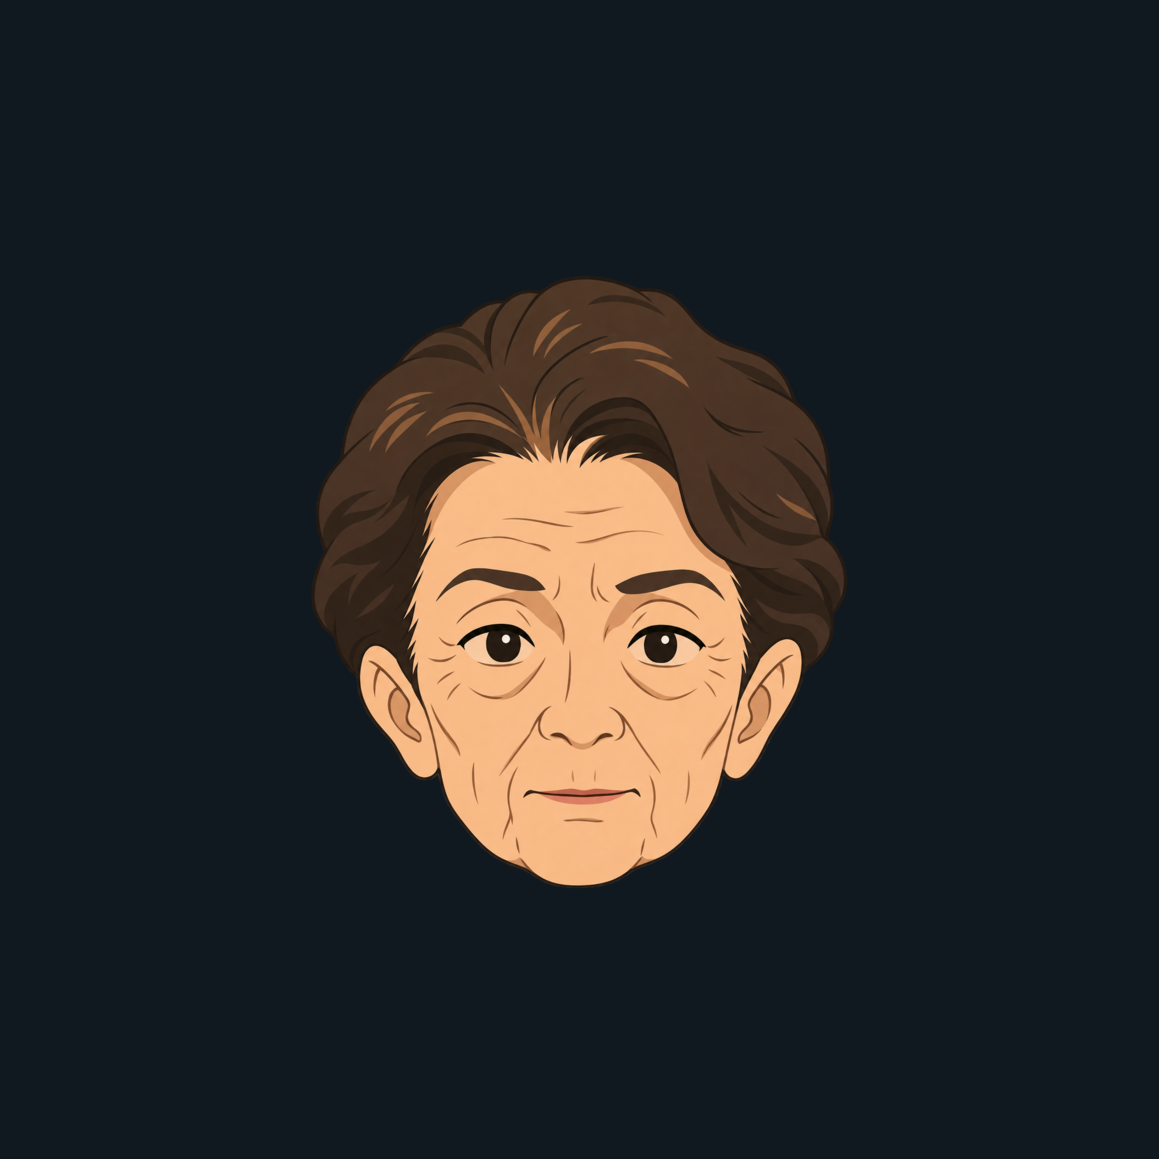
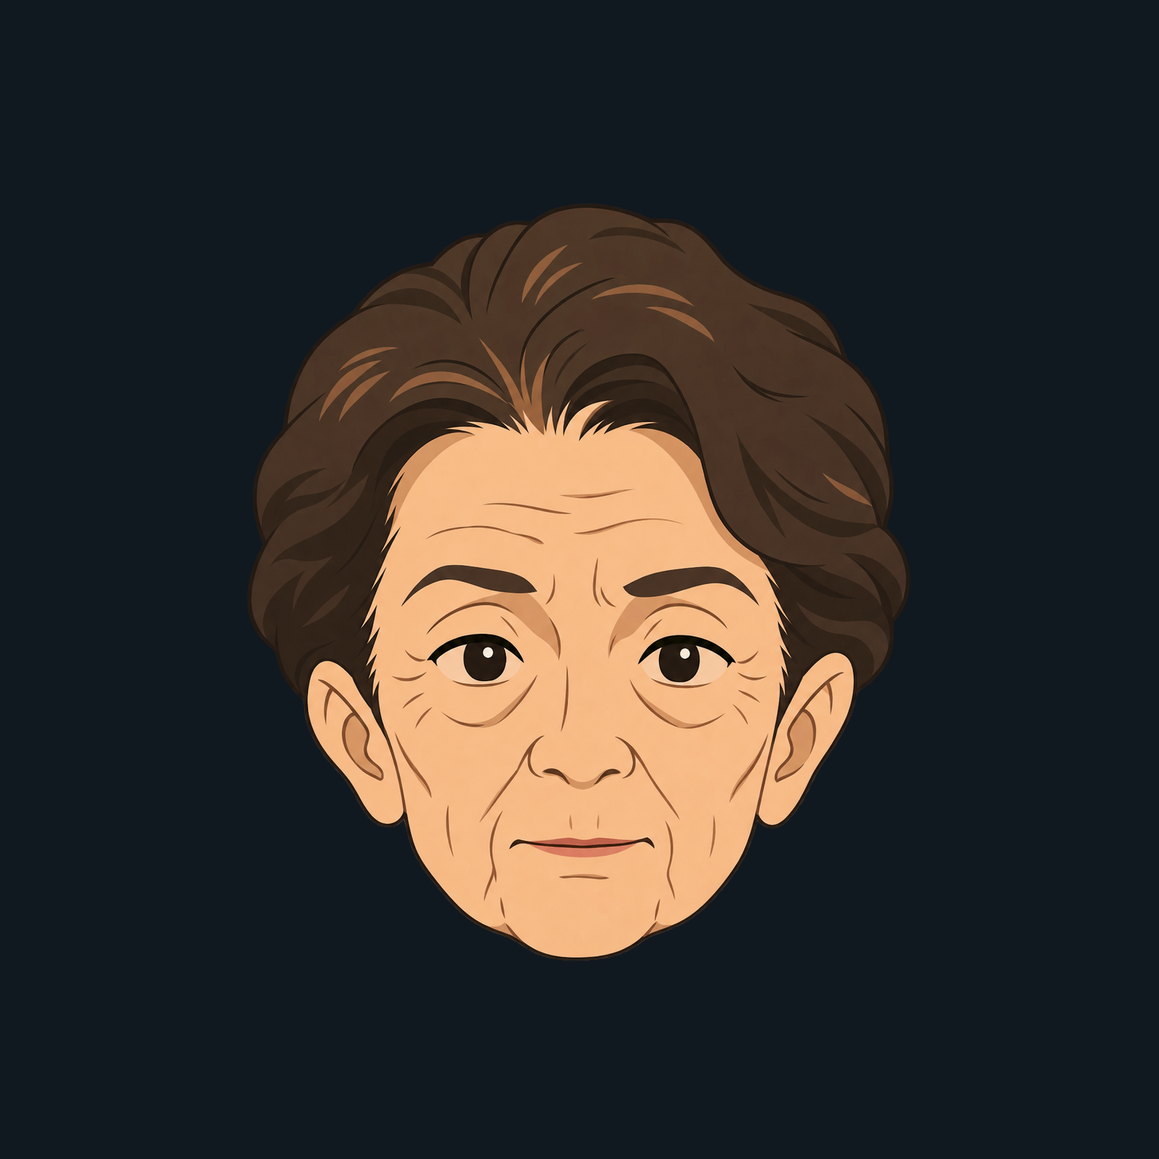
more fixes

Changed region(s): [[0.2174, 0.1553, 0.8076, 0.8387]]

diff --git a/main/main.c b/main/main.c
@@ -1,6 +1,7 @@
 #include <stdbool.h>
 #include <stddef.h>
 #include <stdint.h>
+#include <errno.h>
 #include <stdio.h>
 #include <string.h>
 
@@ -23,6 +24,8 @@
 #include "freertos/event_groups.h"
 #include "freertos/task.h"
 #include "nvs.h"
+#include "lwip/netdb.h"
+#include "lwip/sockets.h"
 #include "nvs_flash.h"
 
 #define BUTTON_COUNT 5
@@ -230,12 +233,37 @@ static uint8_t command_key(const char *command)
     return 0;
 }
 
+
+static void diag_connect(void)  /* TEMP DIAGNOSTIC */
+{
+    const char *host = strstr(backend_url, "://") + 3;
+    char h[96]; size_t n = strcspn(host, ":/"); memcpy(h, host, n); h[n] = 0;
+    struct addrinfo hints = {.ai_socktype = SOCK_STREAM}, *res = NULL;
+    int64_t t0 = esp_timer_get_time();
+    int rc = getaddrinfo(h, "443", &hints, &res);
+    ESP_LOGW(TAG, "DIAG getaddrinfo(%s)=%d in %lld ms", h, rc, (esp_timer_get_time() - t0) / 1000);
+    for (struct addrinfo *a = res; a; a = a->ai_next) {
+        char ip[64] = "?";
+        if (a->ai_family == AF_INET) inet_ntop(AF_INET, &((struct sockaddr_in *)a->ai_addr)->sin_addr, ip, sizeof(ip));
+        ESP_LOGW(TAG, "DIAG family=%d addr=%s", a->ai_family, ip);
+        int fd = socket(a->ai_family, SOCK_STREAM, 0);
+        struct timeval tv = {.tv_sec = 5};
+        setsockopt(fd, SOL_SOCKET, SO_SNDTIMEO, &tv, sizeof(tv));
+        t0 = esp_timer_get_time();
+        int c = connect(fd, a->ai_addr, a->ai_addrlen);
+        ESP_LOGW(TAG, "DIAG connect=%d errno=%d in %lld ms", c, errno, (esp_timer_get_time() - t0) / 1000);
+        close(fd);
+    }
+    if (res) freeaddrinfo(res);
+}
+
 static void backend_task(void *arg)
 {
     (void)arg;
     bool registered = false;
     while (true) {
         xEventGroupWaitBits(wifi_events, WIFI_HAS_IP, pdFALSE, pdTRUE, portMAX_DELAY);
+        diag_connect();
         char response[sizeof(http_response)];
         char poll[160];
         snprintf(poll, sizeof(poll), "{\"device_id\":\"%s\",\"name\":\"%s\"}", device_id, ble_name);
